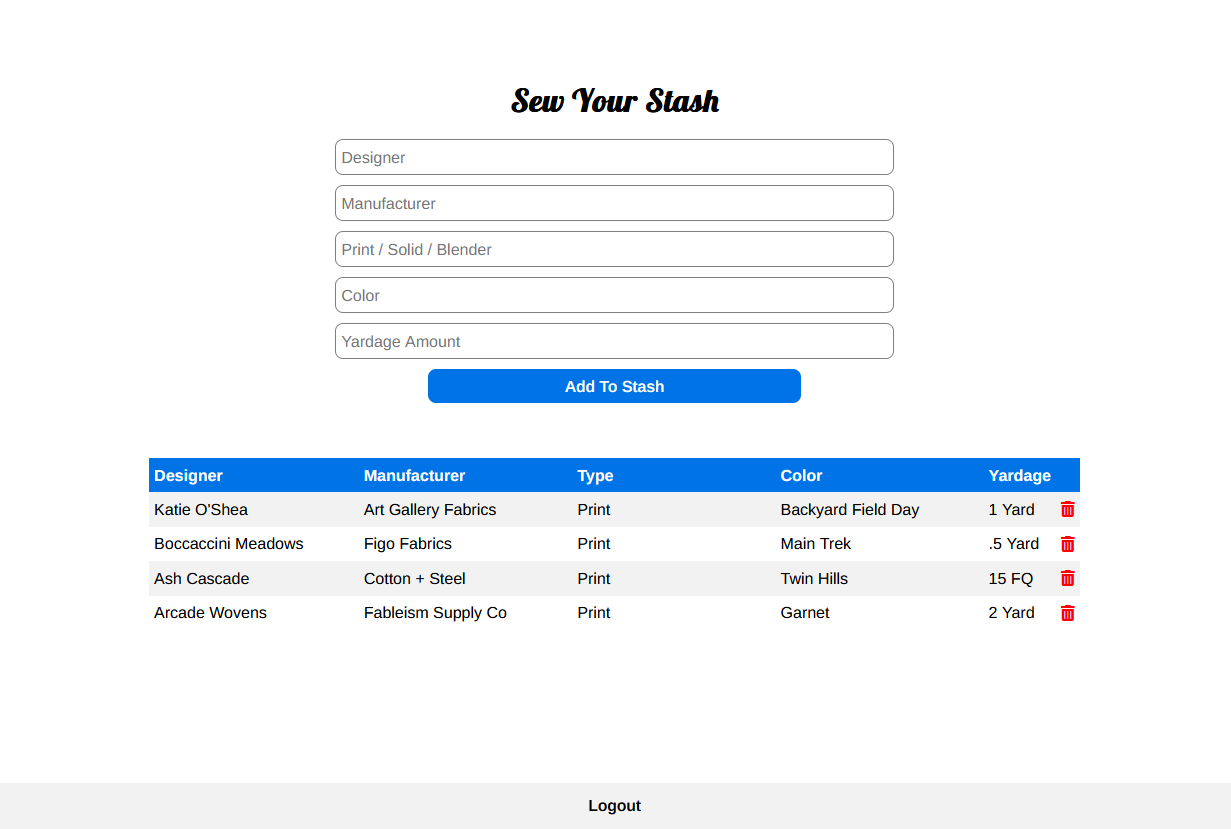
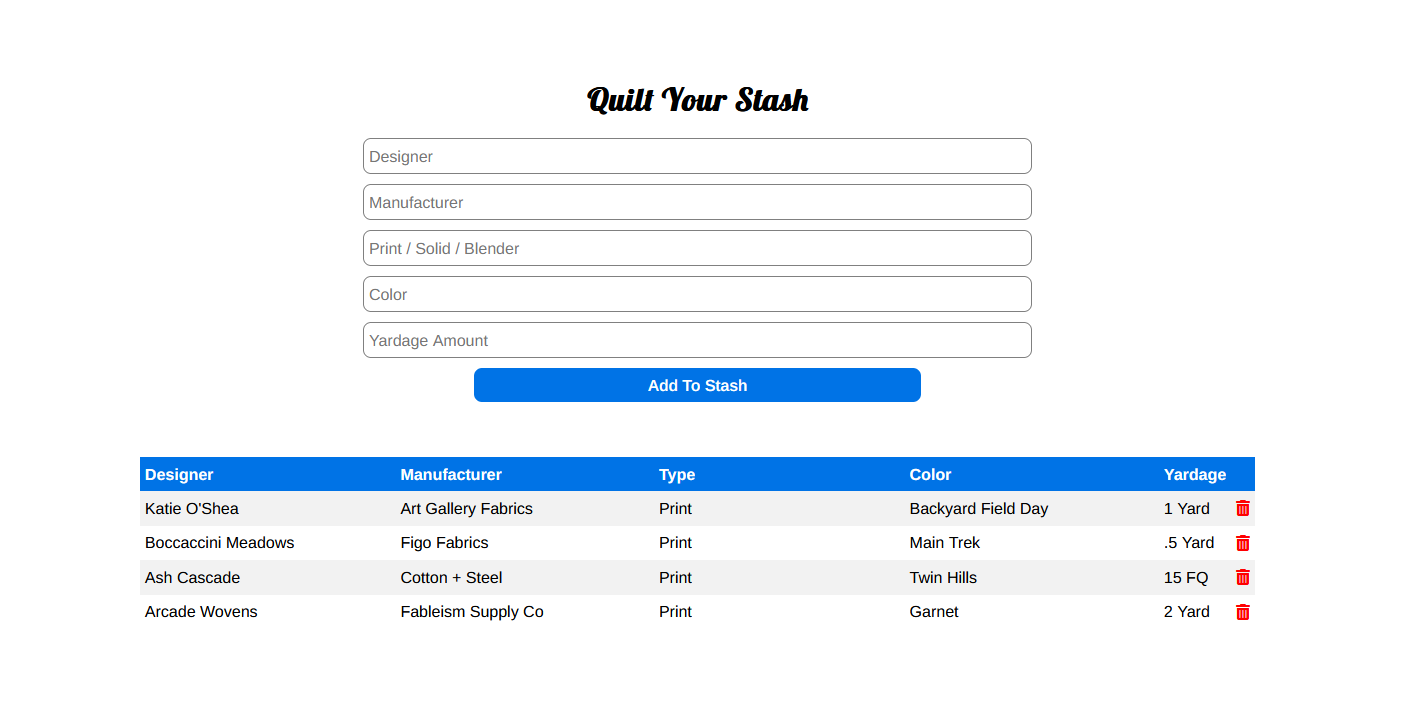
README.md Update

diff --git a/README.md b/README.md
@@ -1,1 +1,20 @@
-# This is a work in progress application
+# Quilt Your Stash | [Live Site Coming Soon]()
+
+![Jenie | Software Engineer](/public/assets/sew-your-stash.png)
+
+## Tech used: ![HTML5 BADGE](https://img.shields.io/static/v1?label=|&message=HTML5&color=5a5a5a&style=flat&logo=html5) ![CSS BADGE](https://img.shields.io/static/v1?label=|&message=CSS3&color=5a5a5a&style=flat&logo=css3) ![JAVASCRIPT BADGE](https://img.shields.io/static/v1?label=|&message=JAVASCRIPT&color=5a5a5a&style=flat&logo=javascript) ![NODE BADGE](https://img.shields.io/static/v1?label=|&message=NODE&color=5a5a5a&style=flat&logo=node.js) ![EXPRESS BADGE](https://img.shields.io/static/v1?label=|&message=EXPRESS&color=5a5a5a&style=flat&logo=express) ![MONGODB BADGE](https://img.shields.io/static/v1?label=|&message=MONGODB&color=5a5a5a&style=flat&logo=mongodb)
+
+This is a full-stack web application inventory tracking system that combines my passion for quilting and coding. Local Auth through passport.js enabled so users can create their own collection.
+
+## Optimizations
+- Responsive design needs to be done
+- Ability to upload images of each fabric
+- Sorting and Filtering on table
+
+## More Projects:
+
+Take a look at these other projects I've done:
+
+**Birth Month Flower API & Client:** https://github.com/jenieg/flower-name-client
+
+**Guess that Pokemon:** https://github.com/jenieg/Guess-That-Pokemon
